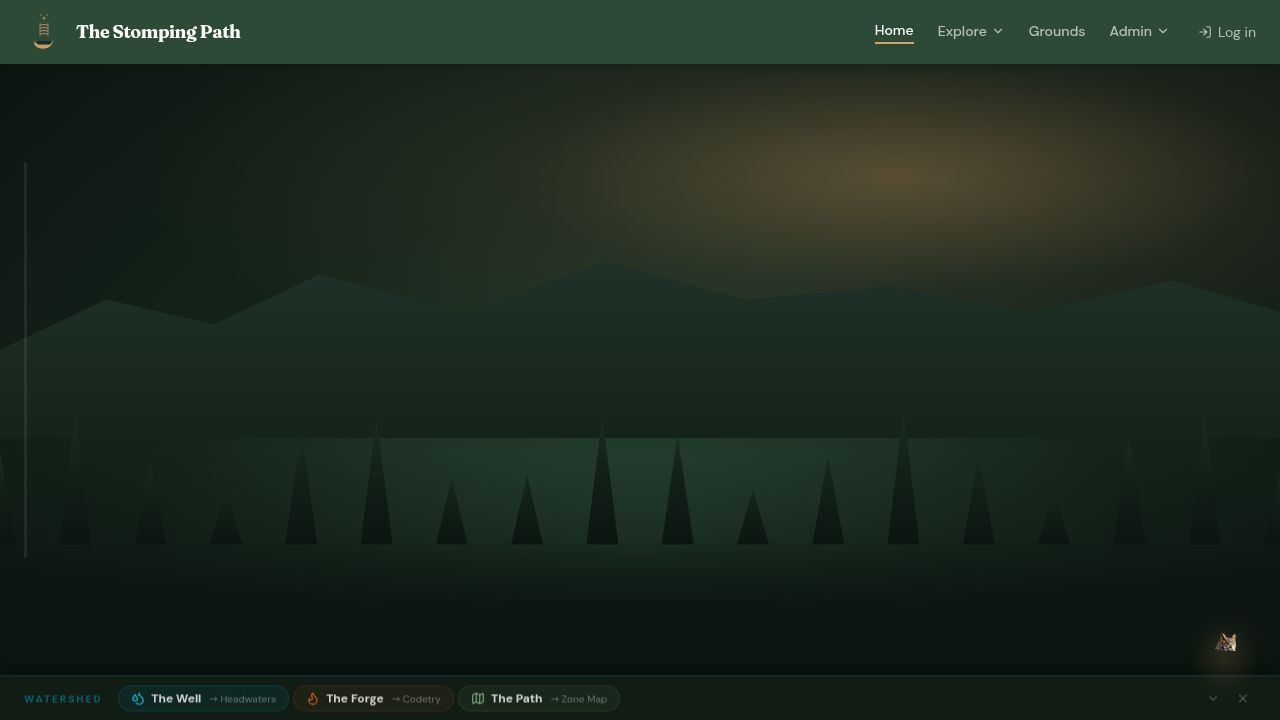
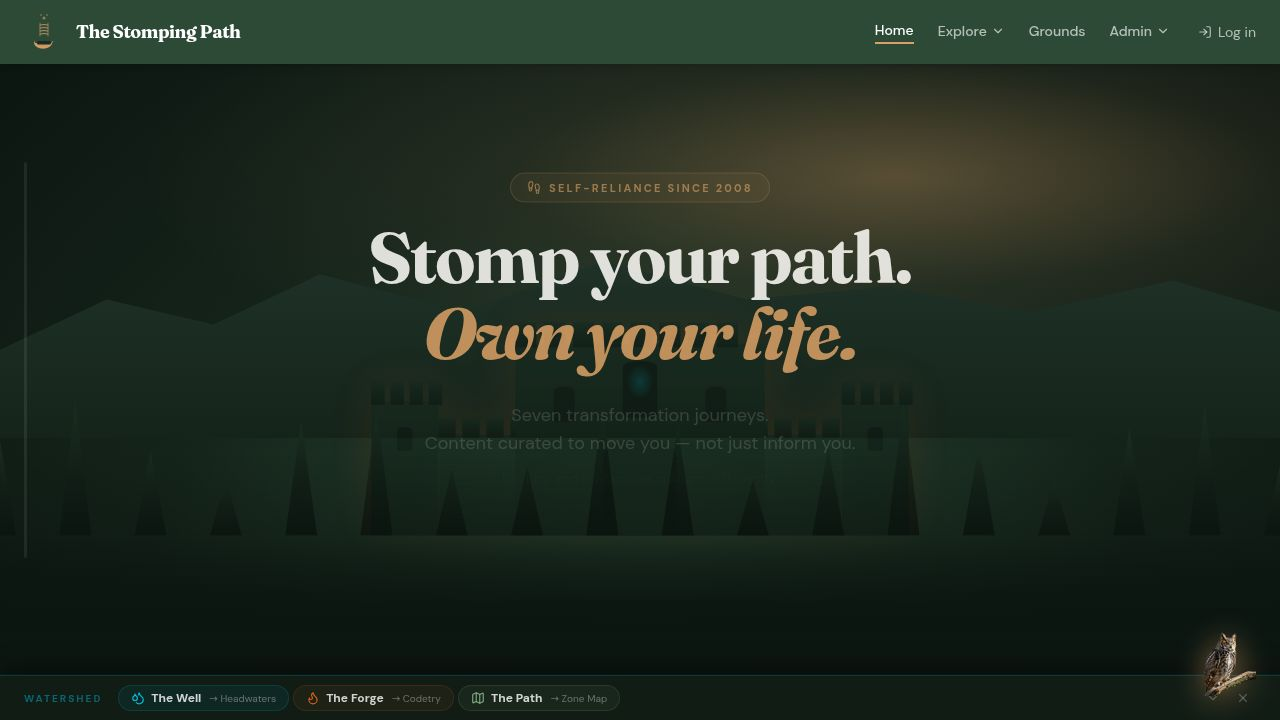
feat: show "Fetching your progress…" caption on extended skeleton load
Task: Let listeners know the widget is loading their progress, not just blank

## What changed
Added a second timer in `ContinueLearningWidget` (home.tsx) that triggers
a soft "Fetching your progress…" caption after 1.5 seconds of continuous
loading. The caption fades in smoothly beneath the skeleton rows using
Framer Motion's AnimatePresence, and disappears the moment loading resolves.

## Implementation details
- Added `EXTENDED_LOAD_THRESHOLD_MS = 1500` constant (configurable) outside
  the component for easy tuning
- Added `showLoadingCaption` state + `captionTimerRef` to manage the delayed
  caption timer independently of the existing 300ms minimum skeleton timer
- Timer starts when `isLoading` becomes true; clears and resets immediately
  when `isLoading` goes false so the caption never lingers after data arrives
- Caption is nested inside the existing skeleton `AnimatePresence` block with
  its own inner `AnimatePresence` for enter/exit transitions (opacity + y)
- Cleanup effect cancels the timer on unmount to avoid memory leaks

## Behavior unchanged for fast paths
- Sub-300ms loads: skeleton flashes then resolves; caption timer never fires
- Sub-1.5s loads: skeleton shows, no caption appears
- 1.5s+ loads: skeleton + caption fade in; both disappear together on resolve

## Files changed
- artifacts/stomping-paths/src/pages/home.tsx

Replit-Task-Id: 206e3562-b045-4ec0-9dc1-f70a309ff10f

diff --git a/artifacts/stomping-paths/src/pages/home.tsx b/artifacts/stomping-paths/src/pages/home.tsx
@@ -667,6 +667,8 @@ function ContinueLearningSkeletonRow() {
   );
 }
 
+const EXTENDED_LOAD_THRESHOLD_MS = 1500;
+
 function ContinueLearningWidget() {
   const { entries: activeEntries, isLoading, serverReturnedEmpty } = useAllActiveTracksState();
   const { data: tracks } = useListTracks();
@@ -694,6 +696,34 @@ function ContinueLearningWidget() {
   useEffect(() => {
     return () => {
       if (minTimerRef.current !== null) clearTimeout(minTimerRef.current);
+    };
+  }, []);
+
+  // After EXTENDED_LOAD_THRESHOLD_MS of continuous loading, fade in a soft
+  // caption so listeners know the skeleton is working, not stalled.
+  // The caption is cleared as soon as loading resolves (showSkeleton → false).
+  const [showLoadingCaption, setShowLoadingCaption] = useState(false);
+  const captionTimerRef = useRef<ReturnType<typeof setTimeout> | null>(null);
+
+  useEffect(() => {
+    if (isLoading) {
+      if (captionTimerRef.current === null) {
+        captionTimerRef.current = setTimeout(() => {
+          setShowLoadingCaption(true);
+        }, EXTENDED_LOAD_THRESHOLD_MS);
+      }
+    } else {
+      if (captionTimerRef.current !== null) {
+        clearTimeout(captionTimerRef.current);
+        captionTimerRef.current = null;
+      }
+      setShowLoadingCaption(false);
+    }
+  }, [isLoading]);
+
+  useEffect(() => {
+    return () => {
+      if (captionTimerRef.current !== null) clearTimeout(captionTimerRef.current);
     };
   }, []);
 
@@ -801,6 +831,20 @@ function ContinueLearningWidget() {
               >
                 <ContinueLearningSkeletonRow />
                 <ContinueLearningSkeletonRow />
+                <AnimatePresence initial={false}>
+                  {showLoadingCaption && (
+                    <motion.p
+                      key="loading-caption"
+                      className="text-center text-[11px] text-[#FDFBF7]/35 mt-1 select-none"
+                      initial={{ opacity: 0, y: 4 }}
+                      animate={{ opacity: 1, y: 0 }}
+                      exit={{ opacity: 0, y: 4 }}
+                      transition={{ duration: 0.4, ease: "easeOut" }}
+                    >
+                      Fetching your progress…
+                    </motion.p>
+                  )}
+                </AnimatePresence>
               </motion.div>
             ) : (
               <motion.div

diff --git a/artifacts/stomping-paths/src/pages/kit-welcome.tsx b/artifacts/stomping-paths/src/pages/kit-welcome.tsx
@@ -93,11 +93,11 @@ function saveStoredAccess(kitSlug: string, email: string, elv: boolean) {
 
 function getSessionDaysRemaining(kitSlug: string): number | null {
   try {
-    const raw = localStorage.getItem(storageKey(kitSlug));
+    const raw = localStorage.getItem(kitStorageKey(kitSlug));
     if (!raw) return null;
     const parsed = JSON.parse(raw) as { savedAt?: number };
     if (!parsed.savedAt) return null;
-    const msRemaining = STORAGE_TTL_MS - (Date.now() - parsed.savedAt);
+    const msRemaining = KIT_SESSION_TTL_MS - (Date.now() - parsed.savedAt);
     if (msRemaining <= 0) return null;
     return Math.ceil(msRemaining / (24 * 60 * 60 * 1000));
   } catch {